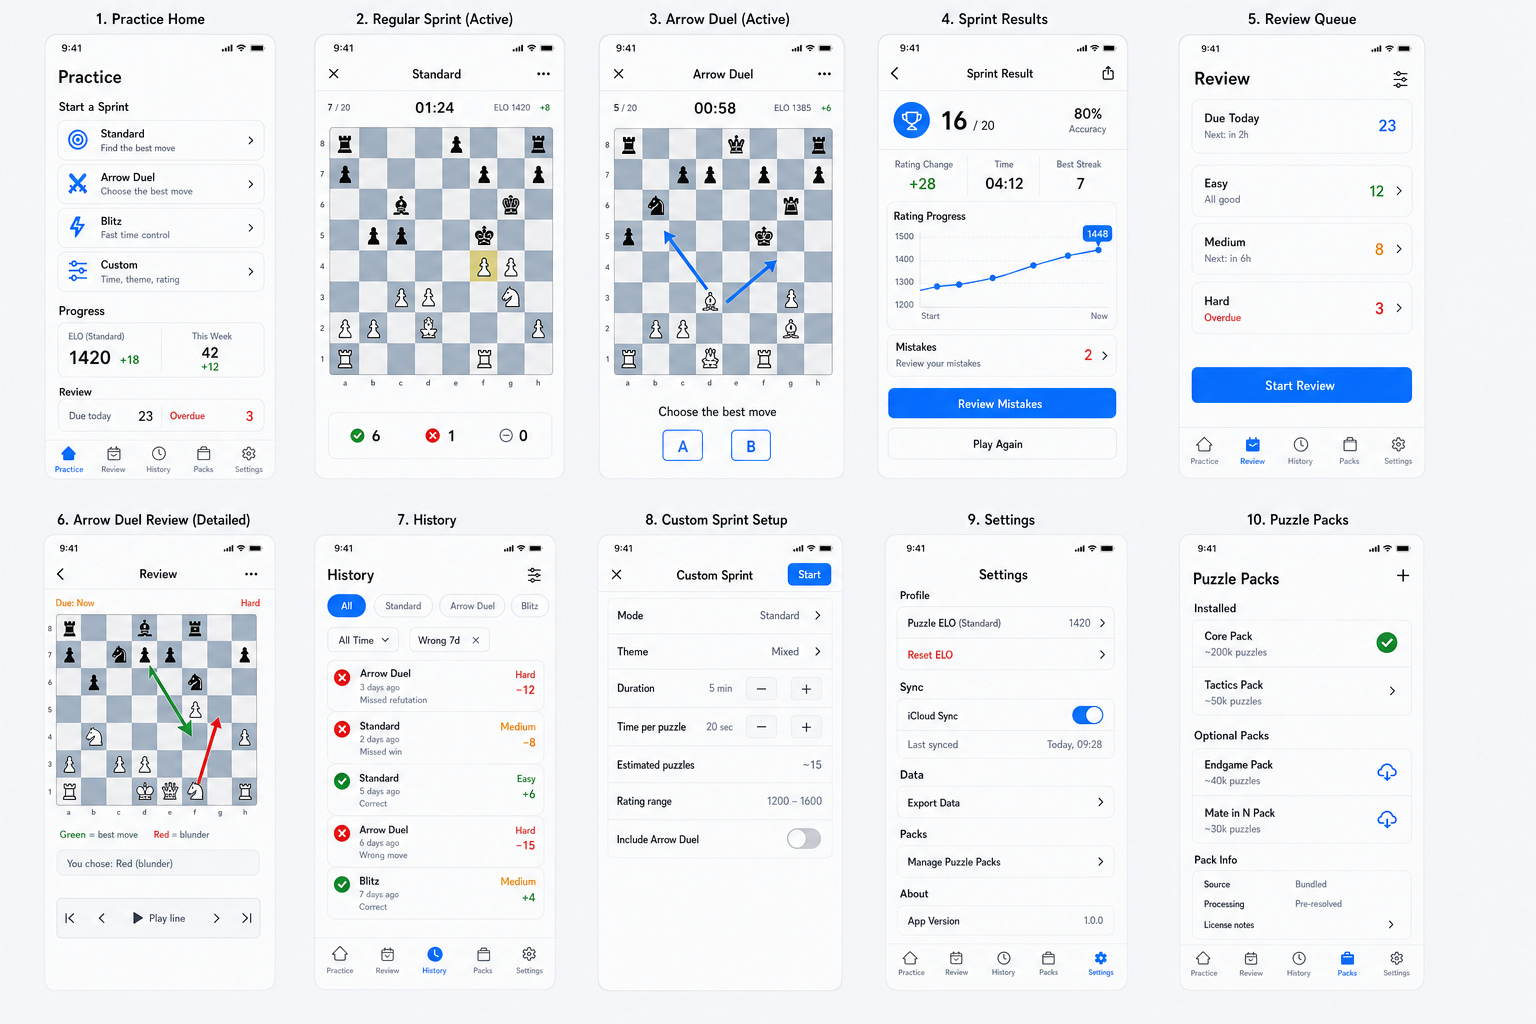
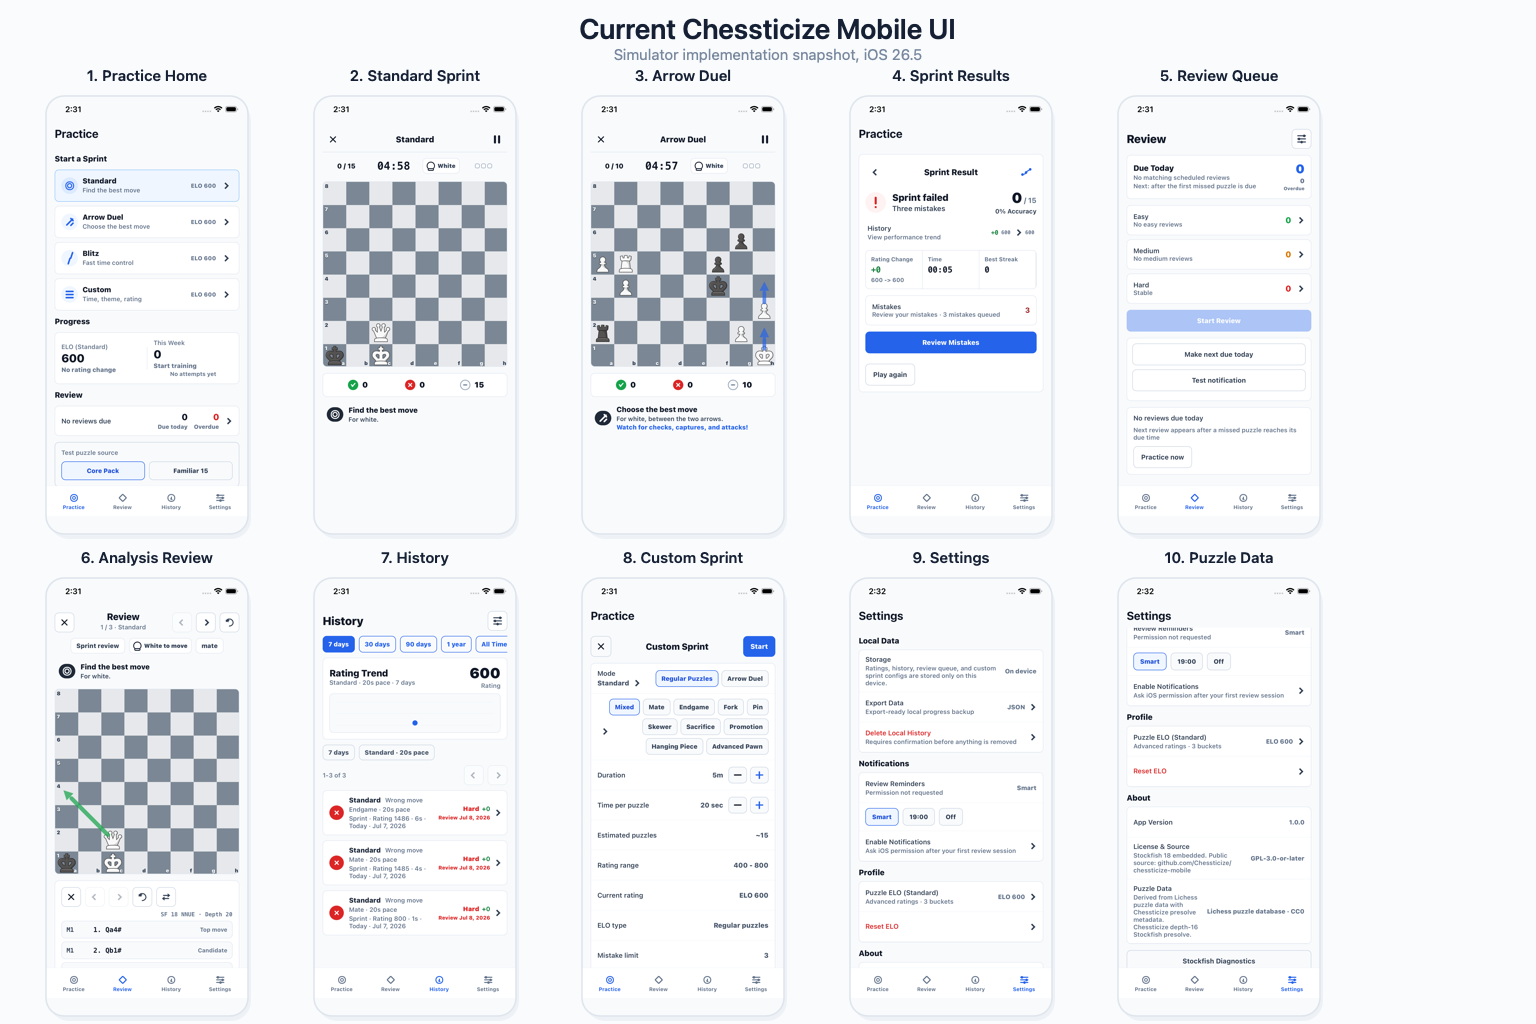
Refresh mobile UI design board (#114)

diff --git a/docs/ui-design/MOBILE_UI_DESIGN.md b/docs/ui-design/MOBILE_UI_DESIGN.md
@@ -1,6 +1,6 @@
 # Mobile UI Design
 
-This document captures the current Chessticize web Puzzle Sprint experience and proposes a cleaner mobile-first UI direction for Chessticize Mobile. Game Review is intentionally out of scope for the mobile app.
+This document captures the current Chessticize web Puzzle Sprint experience, the current Chessticize Mobile implementation shape, and the remaining mobile-first UI requirements. Game Review is intentionally out of scope for the mobile app.
 
 ## Current Web Observations
 
@@ -29,35 +29,37 @@ The current web app was reviewed in Chrome on `chessticize.com`, focused on Puzz
 
 ## Complete App Design Board
 
-The design board below is an imagegen-rendered high-fidelity concept for reviewing the overall product shape. It is useful for visual direction, but the written specifications in this document are authoritative for exact copy, scoring behavior, chart placement, licensing text, and implementation details.
+The design board below is a simulator-captured implementation snapshot from the current iOS app. It is useful for reviewing the actual product shape, but the written specifications in this document are authoritative for exact copy, scoring behavior, chart placement, licensing text, and remaining implementation details. The captured build is a development/test build, so it may show QA-only controls such as the puzzle source switch and review notification test actions that must remain hidden in release builds.
 
 ![Complete mobile design board](assets/mobile-full-design-board.png)
 
-The board covers these major screens:
+The board covers these current major screens:
 
 - Practice Home
-- Regular Sprint Active
+- Standard Sprint Active
 - Arrow Duel Active
 - Sprint Results
 - Review Queue
-- Arrow Duel Review
+- Analysis Review
 - History
 - Custom Sprint Setup
 - Settings
+- Puzzle Data / License
 
 Screen inventory:
 
 | Screen | Main layout | Primary actions | Navigates to |
 | --- | --- | --- | --- |
 | Practice Home | Mode list, progress summary, due review strip, bottom tabs | Start Standard, Arrow Duel, Blitz, Custom; resume interrupted session | Active Sprint, Custom Sprint, Review Queue |
-| Regular Sprint Active | Focused session shell, status bar, board, prompt | Make board move, abandon, complete/fail sprint | Sprint Results |
-| Arrow Duel Active | Focused shell, status bar, board, neutral candidate arrows | Choose a candidate on the board, abandon, complete/fail sprint | Sprint Results, Arrow Duel Review |
+| Standard Sprint Active | Focused session shell, status bar, board, prompt | Make board move, abandon, complete/fail sprint | Sprint Results |
+| Arrow Duel Active | Focused shell, status bar, board, neutral candidate arrows | Choose a candidate on the board, abandon, complete/fail sprint | Sprint Results, Analysis Review |
 | Sprint Results | Win/loss status, solved count, rating change, mistakes, actions | Review mistakes, play again, done | Review Item, Practice Home |
 | Review Queue | Due/overdue summary, difficulty groups, start button | Start due review, filter queue | Review Item |
-| Arrow Duel Review | Board, green/red arrows, guided punishment line | Follow line, reset, analyze, finish review | Review Complete, History |
-| History | Rating trend line chart, range/type filters, attempt rows, result/rating/review state | Filter wrong-only rows, inspect sprint type/speed, open attempt | Attempt Detail, Review Item |
+| Analysis Review | Board, compact toolbar, Stockfish status, candidate line rows, guided arrows when applicable | Reset, flip, analyze, navigate, finish review | Review Complete, History |
+| History | Rating trend line chart, range filters, selected ELO bucket, expandable row filters, attempt rows | Filter wrong-only/source rows, inspect attempt context, open attempt | Attempt Detail, Review Item |
 | Custom Sprint Setup | Mode/theme/timing controls, estimate, rating range, start | Start sprint, save template | Active Sprint |
-| Settings | Local data, reset, export, notifications, about, puzzle-data source notes | Export data, delete local history, reset ELO, inspect licenses | Confirm Sheet |
+| Settings | Local data, reset, export, notifications, about, puzzle-data source notes | Export data, delete local history, reset ELO, inspect licenses | Confirm Sheet, Puzzle Data / License |
+| Puzzle Data / License | Bundled source name, puzzle count, source license, Lichess-derived attribution, presolve metadata | Inspect source and license notes | Settings |
 
 ## Mobile Information Architecture
 
@@ -65,7 +67,7 @@ Use a four-tab app shell:
 
 - Practice: quick start, active session, custom sprint setup, and Arrow Duel entry.
 - Review: due mistake reviews and spaced repetition queue.
-- History: attempts, sprint sessions, filters, and the wrong-only shortcut.
+- History: attempts, sprint sessions, range filters, selected ELO bucket, and expandable detailed filters including wrong-only/source filters.
 - Settings: local data, ELO reset, export/delete data, notification preferences, advanced rating adjustment, and puzzle data attribution.
 
 There should be no mobile Home tab, Game Review tab, or Packs tab in v1.
@@ -86,9 +88,9 @@ Primary flows:
 
 | Flow | Steps | Notes |
 | --- | --- | --- |
-| Standard or Blitz practice | Practice Home -> Regular Sprint Active -> Sprint Results -> Practice Home | Board moves submit answers directly. Win by solving the target count before time/mistake failure. |
-| Arrow Duel practice | Practice Home -> Arrow Duel Active -> Sprint Results -> Arrow Duel Review | Candidate arrows are neutral until selection. Win by solving the target count before time/mistake failure. |
-| Custom sprint | Practice Home -> Custom Sprint Setup -> Regular Sprint Active or Arrow Duel Active -> Sprint Results | The selected mode determines the active session shell. |
+| Standard or Blitz practice | Practice Home -> Standard Sprint Active -> Sprint Results -> Practice Home | Board moves submit answers directly. Win by solving the target count before time/mistake failure. |
+| Arrow Duel practice | Practice Home -> Arrow Duel Active -> Sprint Results -> Analysis Review | Candidate arrows are neutral until selection. Win by solving the target count before time/mistake failure. |
+| Custom sprint | Practice Home -> Custom Sprint Setup -> Standard Sprint Active or Arrow Duel Active -> Sprint Results | The selected mode determines the active session shell. |
 | Due mistake review | Review Queue -> Scheduled Review Item -> Review Complete -> Review Queue | Correct answers increase interval; failures reset or shorten it. Official review attempts are recorded in History. |
 | Post-session analysis | Sprint Results or Scheduled Review Complete -> Analysis Review -> Results or Practice | Used to inspect mistakes immediately. It is opened only by the result-screen review action, does not write History, and does not change the spaced repetition schedule. |
 | History replay | History -> Filtered row -> Analysis Review | History preserves original attempt context. Previous/next navigation stays inside the active History filter. |
@@ -157,7 +159,7 @@ Core components:
 - `ChessboardSurface`: reused board component plus highlight/arrow overlay adapter.
 - `ModePicker`: compact list or segmented choice for Standard, Arrow Duel, Blitz, Custom.
 - `ReviewQueueHeader`: due count, overdue count, and next review estimate.
-- `HistoryFilterBar`: date/result/mode/theme chips with a persistent wrong-only shortcut.
+- `HistoryFilterBar`: date-range chips, selected ELO bucket, compact filter toggle, and expandable result/source filters.
 - `RatingTrendChart`: rating-only line chart over the selected ELO bucket and time range.
 - `SettingsRow`: label, value, status, and disclosure or switch.
 - `PuzzleDataLicenseSection`: bundled source name, puzzle count, source license, Lichess-derived attribution, and Chessticize presolve metadata.
@@ -257,7 +259,7 @@ Arrow Duel review rules:
 - Green always means the best move.
 - Red always means the inferior candidate.
 - The review should avoid redundant legend or choice-marker chips; use board arrows, feedback highlights, and the guided line to explain the state.
-- After a wrong answer, the opponent's refutation reply plays automatically, then the punishment line continues as a guided interaction: the user plays each expected move themselves by following the guide arrow, so no pause/step transport controls are needed. Replay is available by resetting the puzzle. Throughout the line, show the live Stockfish evaluation of the current position. (This guided interaction supersedes the playback transport bar drawn on the design board.)
+- After a wrong answer, the opponent's refutation reply plays automatically, then the punishment line continues as a guided interaction: the user plays each expected move themselves by following the guide arrow, so no pause/step transport controls are needed. Replay is available by resetting the puzzle. Throughout the line, show the live Stockfish evaluation of the current position. The current implementation uses the compact review toolbar and guided arrows rather than a playback transport bar.
 - If the stored punishment line requires the user's next move, show that expected move with an arrow, wait for the user to make it, then play the next reply. Continue until the line ends, then stop.
 - Review copy should explain the tactical reason only when the data supports it; otherwise show engine line and evaluation shift.
 - In a Scheduled Review, selecting the wrong Arrow Duel candidate records a failed review attempt and resets or contracts that puzzle's schedule. The user may then enter Analysis Review to inspect the line without creating additional history.
@@ -355,8 +357,8 @@ Custom sprint behavior:
 
 - Quick range filters include 7 days, 30 days, 90 days, 1 year, and all time.
 - History data must be pageable, including the all-time range.
-- Quick content filters include a front-page "Wrong only" shortcut, source type, theme, rating range, and review status.
-- "Wrong only" is a result filter shortcut that does not change the active time range. It toggles the attempt rows between all results and wrong results.
+- Quick content filters include wrong-only and source type. These live behind the compact filter toggle so the default History surface can prioritize range chips, the selected ELO bucket, the rating trend, and attempt rows.
+- "Wrong only" is a result filter shortcut that does not change the active time range. It toggles the attempt rows between all results and wrong results and should appear in the active filter summary when enabled.
 - The selected ELO bucket is required and supplies the mode, sprint config, and
   sprint-speed context in 1.0. Do not show separate History mode or speed chips
   while the view is scoped to a single bucket.
@@ -470,6 +472,7 @@ Required labels/test IDs:
 - `review-start-due`
 - `review-dev-promote-next-due` (dev/test builds only)
 - `review-dev-test-notification` (dev/test builds only)
+- `history-filter-toggle`
 - `history-filter-wrong-only`
 - `settings-local-storage`
 - `settings-reset-elo`